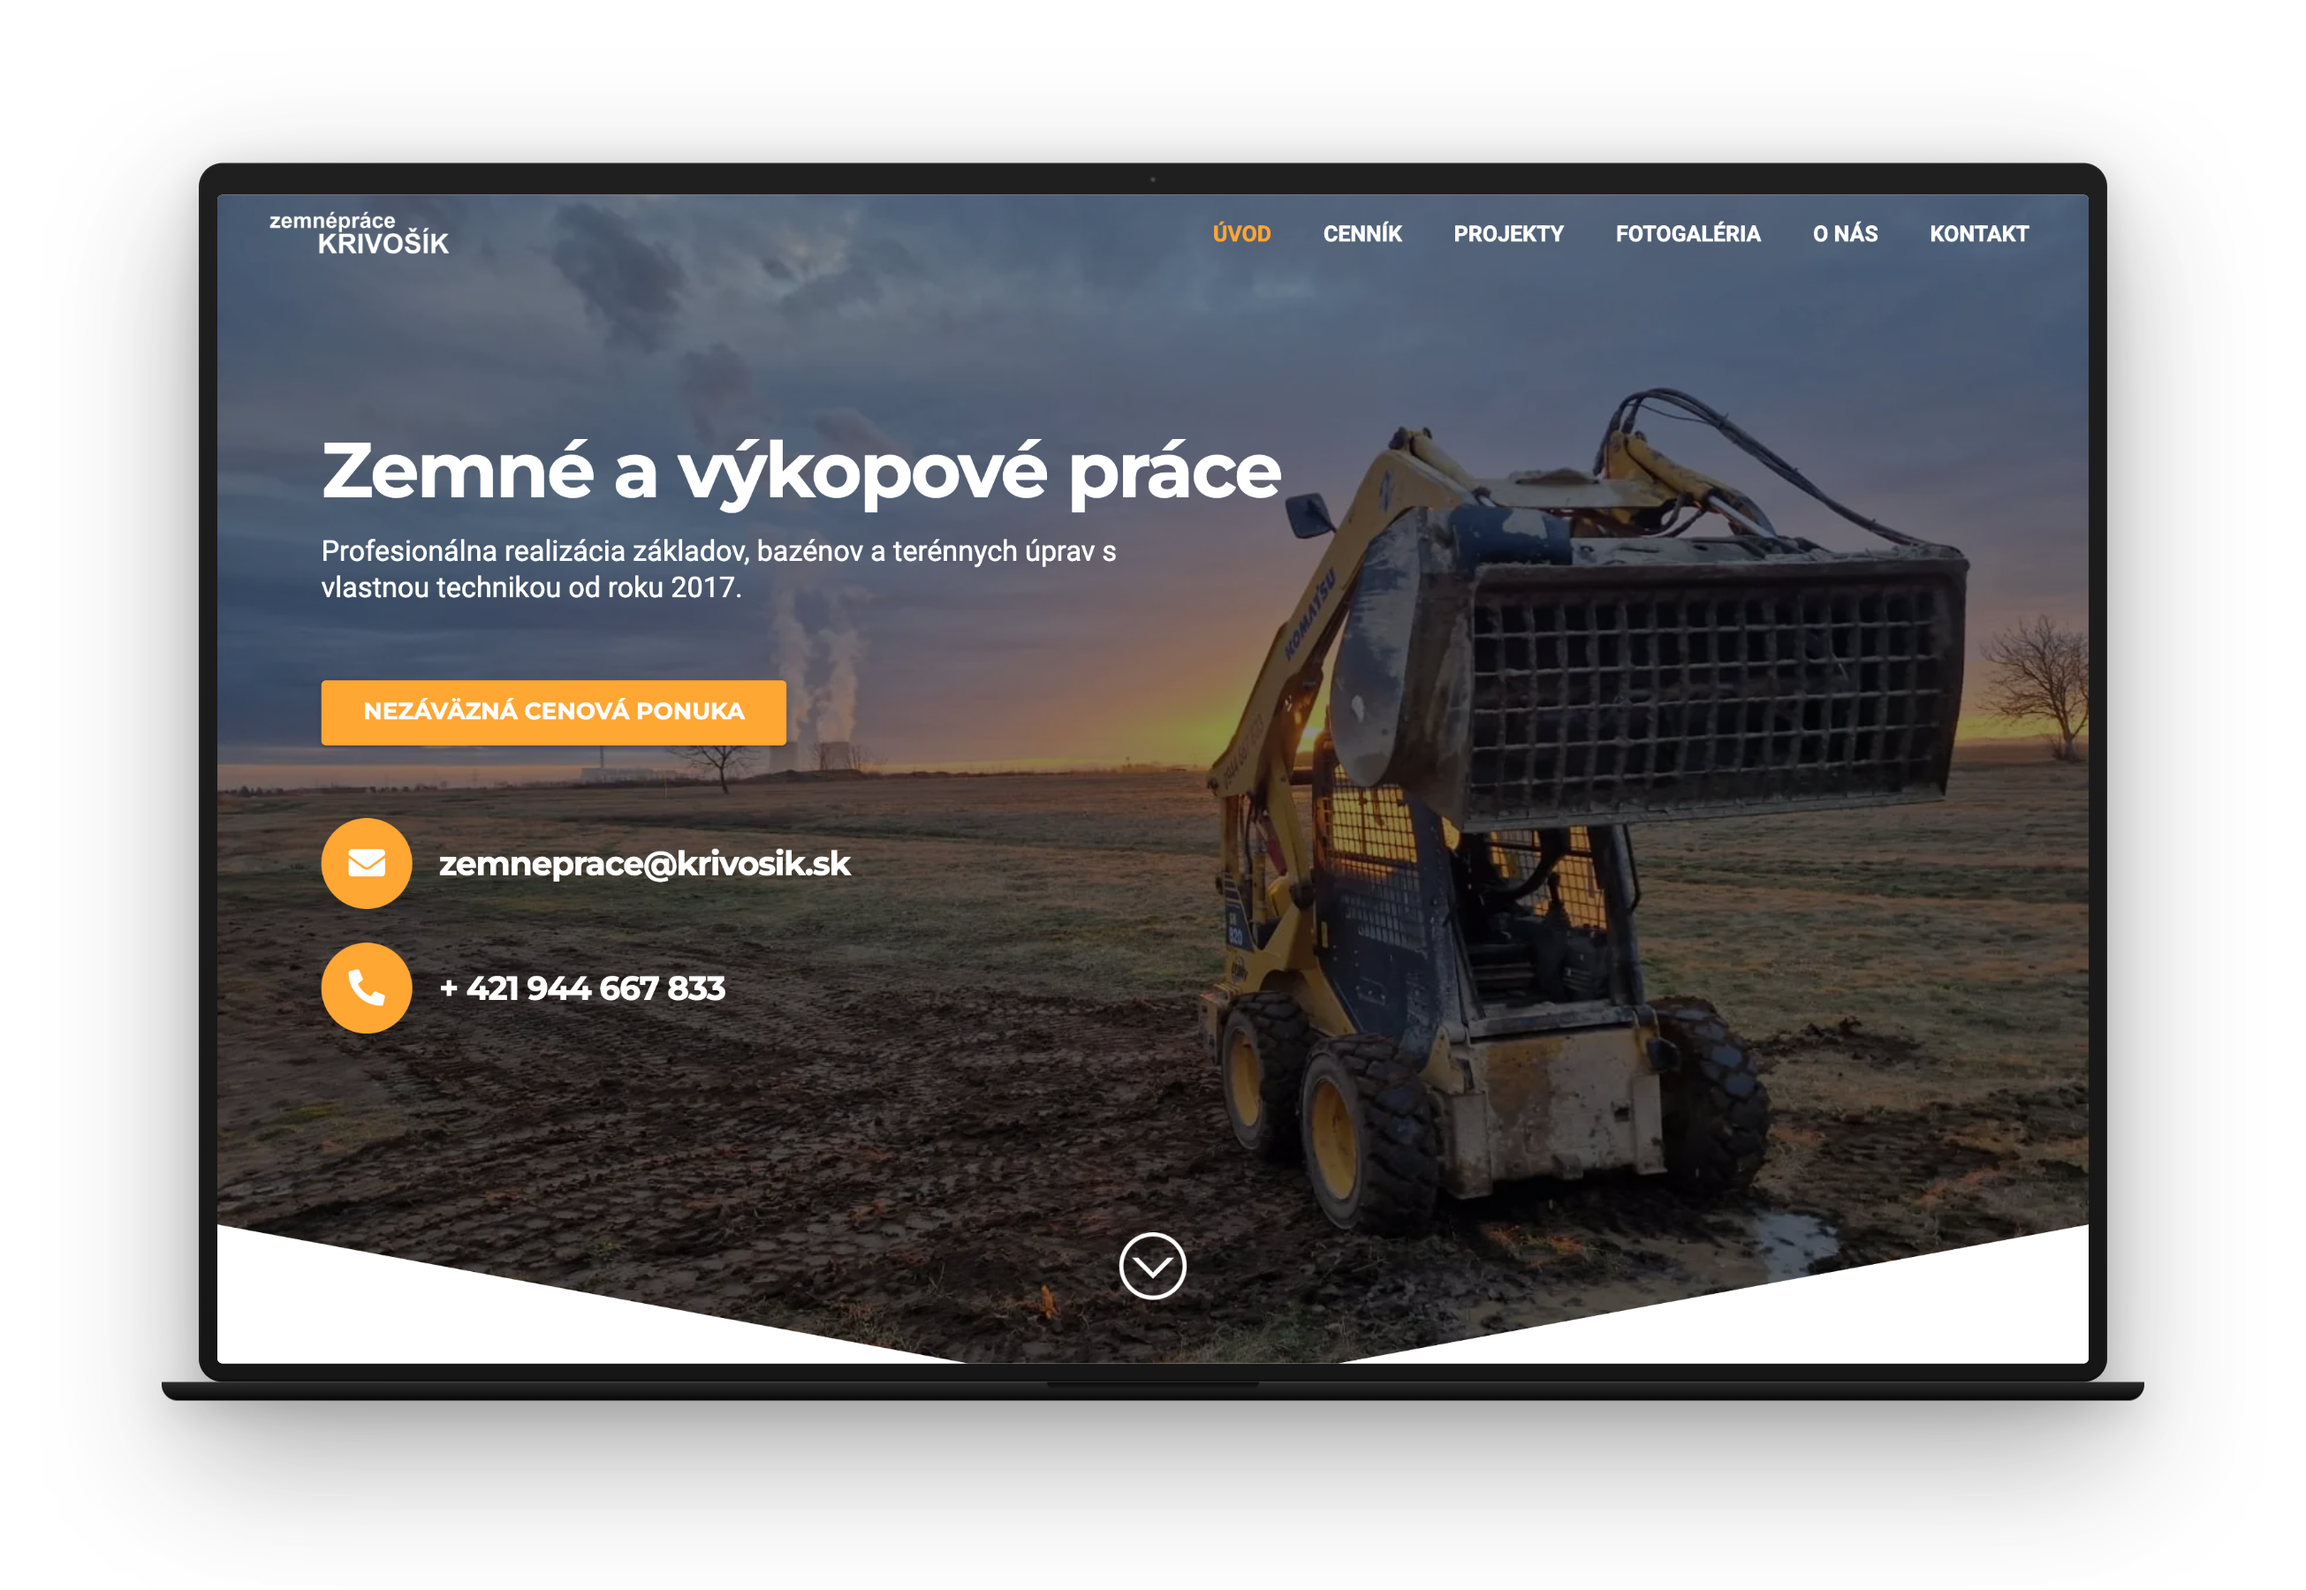
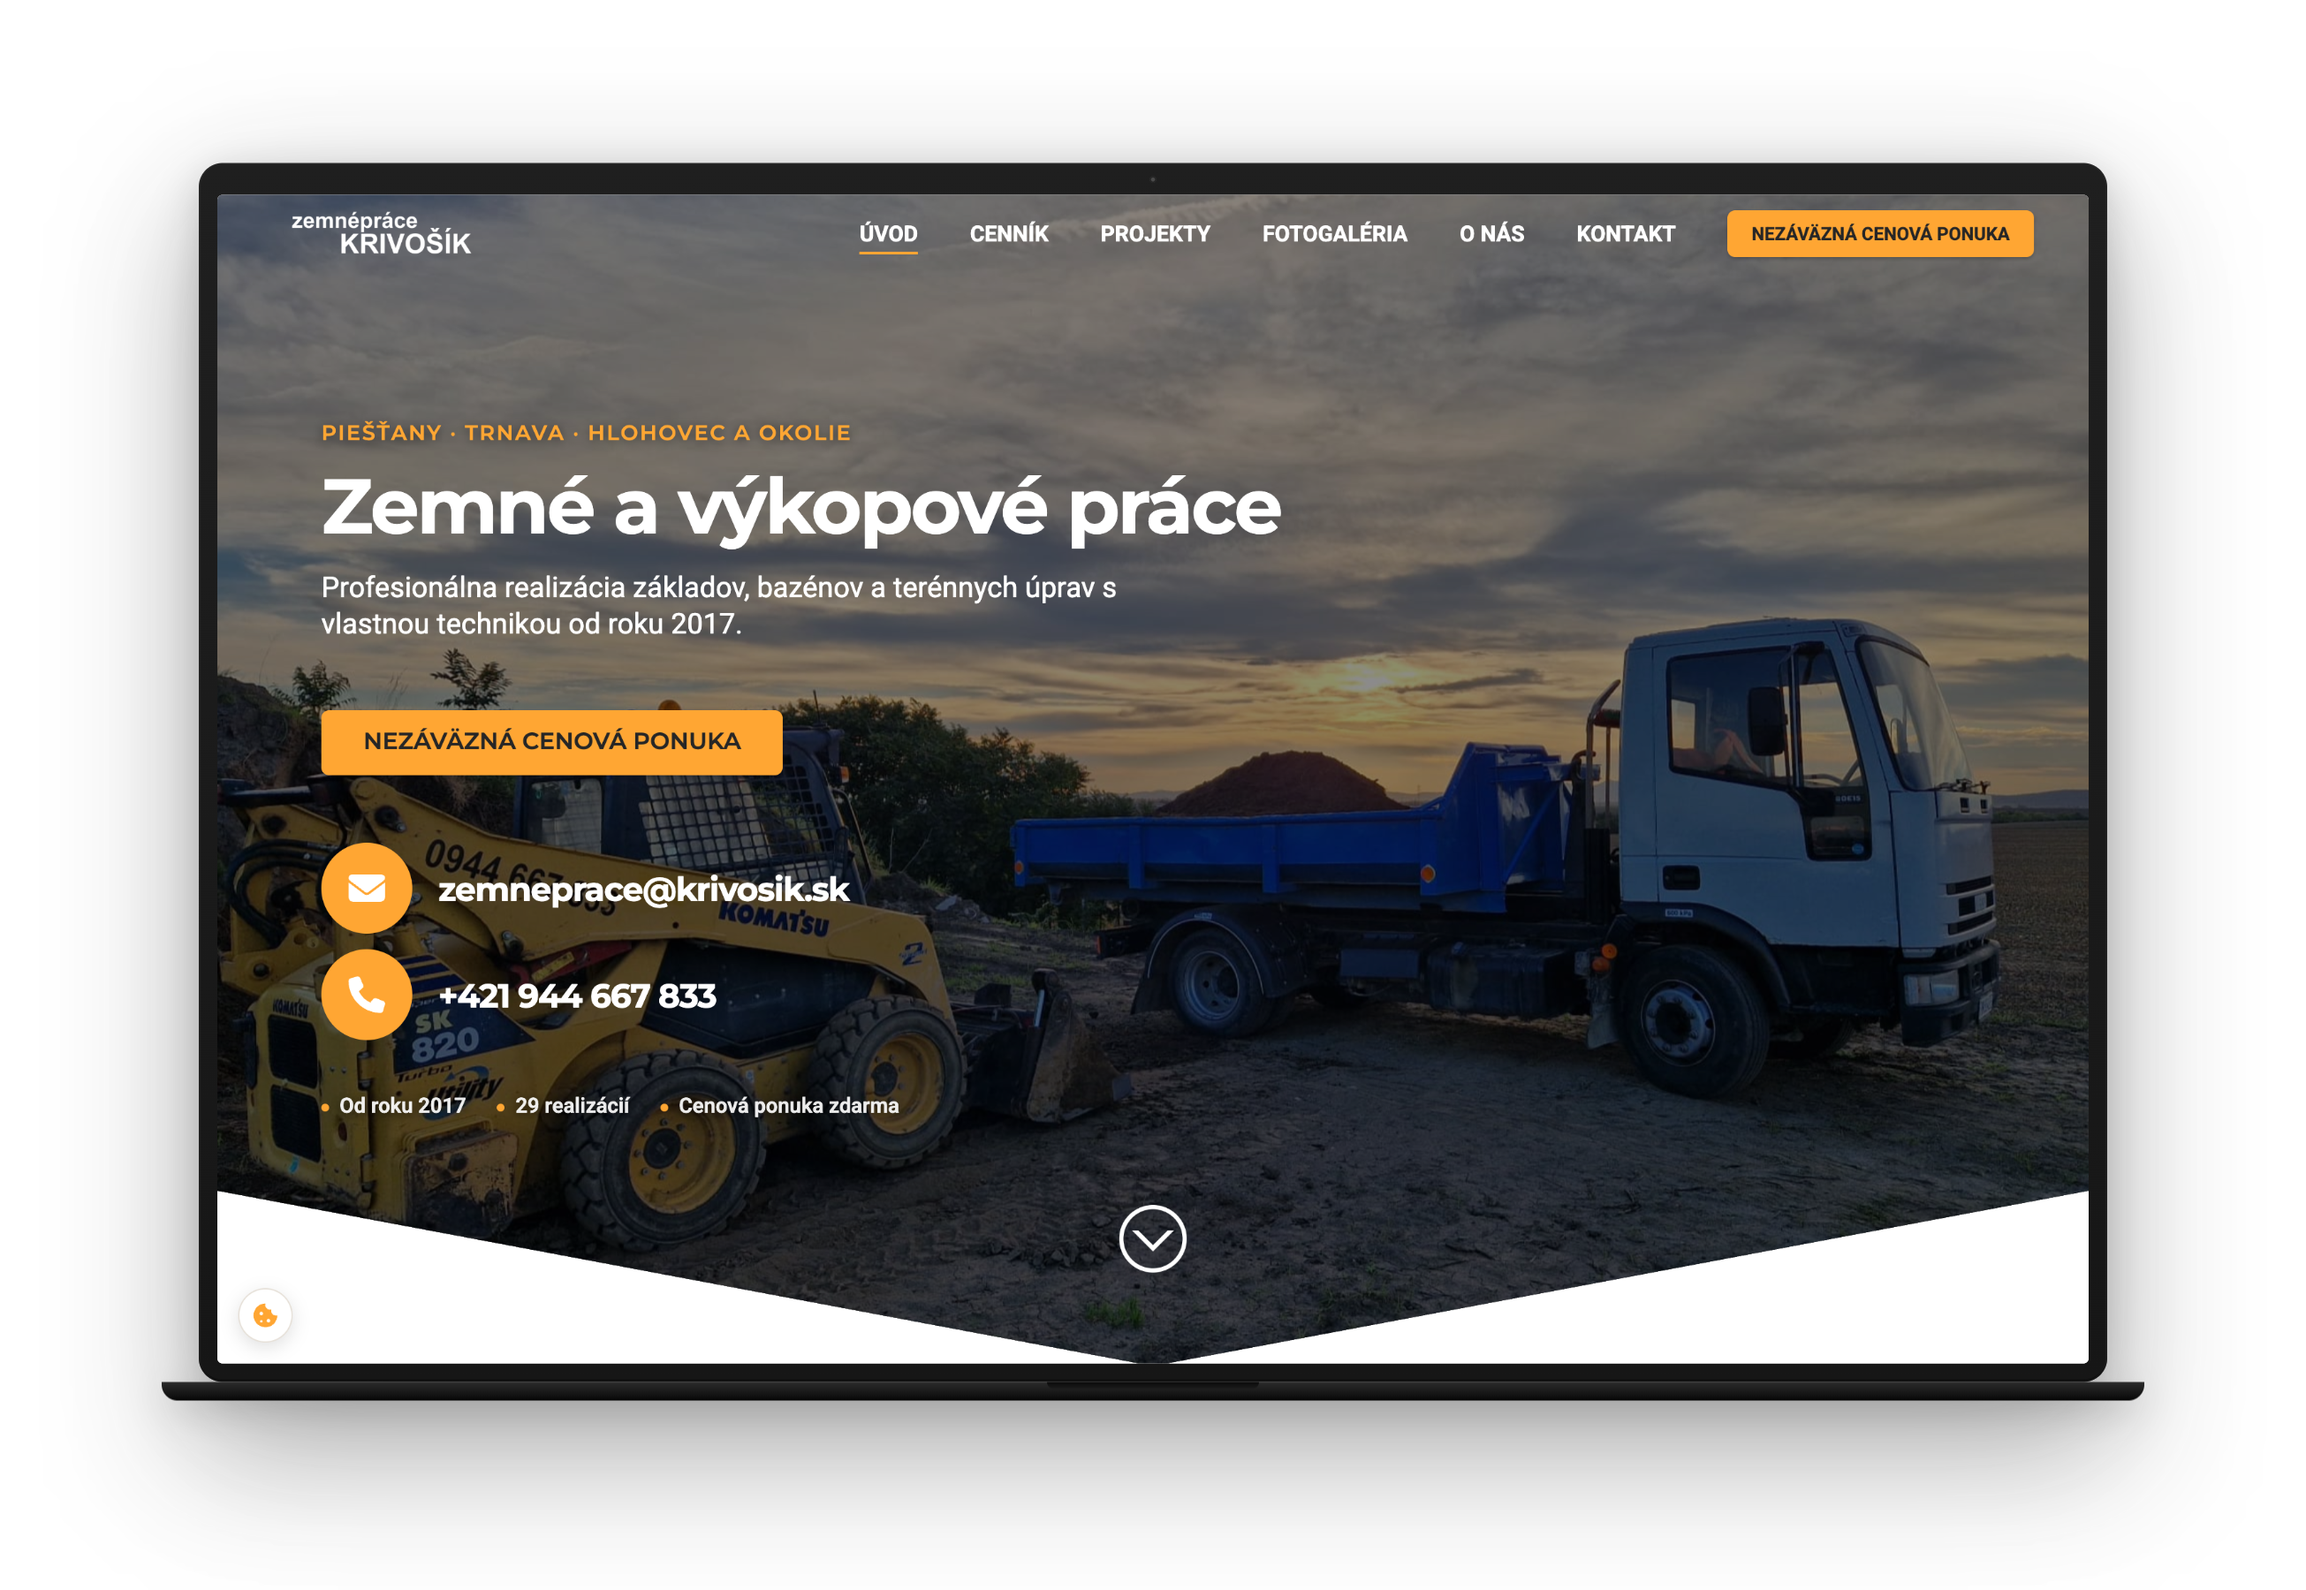
Prípadová štúdia krivosik.sk: nový web, nové zábery, llms.txt (SK + EN)
Claude-Session: https://claude.ai/code/session_01GgtSTiRknFji6dDHMh4FR9

diff --git a/src/content/projects/en/krivosik.md b/src/content/projects/en/krivosik.md
@@ -1,50 +1,59 @@
 ---
-name: "Krivošík – Earthworks"
-kind: "Company website · WordPress"
-year: "2021"
+name: "krivosik.sk"
+kind: "Custom website · WordPress"
+year: "2026"
 role: "WordPress Developer · ongoing maintenance"
-duration: "Built 2021 + ongoing"
+duration: "2 days build + ongoing"
 client: "Ľubomír Krivošík"
 url: "krivosik.sk"
 accent: accent
 order: 29
 featured: true
-brief: "A company website with strong local SEO for a sole trader in earthworks and excavation near Piešťany — services, a portfolio of jobs, and the phone number within reach."
+brief: "A new website for an earthworks and excavation company: a form next to the map, Google reviews on the site and enquiry tracking. Mobile performance from 79 to 95, first paint in 1.0 s instead of 3.4 s."
 metrics:
-  - value: "1st page"
-    label: "Google · “zemné práce Piešťany”"
-  - value: "1st page"
-    label: "Google · “výkopové práce Piešťany”"
-  - value: "1,500+"
-    label: "visits per 6 months"
-process:
-  - title: "Discovery"
-    duration: "1 day"
-    desc: "Goals, local keywords (“earthworks” / “excavation” + Piešťany), a quick audit of regional competitors."
-  - title: "Design"
-    duration: "2 days"
-    desc: "Mobile-first layout on the Impreza theme — services and phone number in the first section, a dedicated jobs section."
-  - title: "Build"
-    duration: "1 week"
-    desc: "Impreza theme setup, a portfolio gallery from real on-site photos, a contact form and click-to-call."
-  - title: "Launch + local SEO"
-    duration: "1 day"
-    desc: "GA, Search Console, on-page local SEO, LocalBusiness schema, sitemap — targeted at leads from around Piešťany."
-  - title: "Ongoing maintenance"
-    duration: "ongoing"
-    desc: "Adding new jobs, updates, and small tweaks as needed."
+  - value: "79 → 95"
+    label: "mobile performance (PageSpeed)"
+  - value: "3.4 → 1.0 s"
+    label: "first contentful paint (FCP) on mobile"
+  - value: "80 → 0 ms"
+    label: "total blocking time (TBT) on mobile"
 stack:
   - "WordPress"
-  - "Impreza (theme)"
-  - "Local SEO"
-  - "Jobs gallery"
-heroCaption: "homepage · services and phone in the hero"
-mobileCaption: "services and contact on mobile"
-secondaryCaption: "project detail · pool excavation & build"
+  - "Custom theme"
+  - "Yoast SEO"
+  - "Contact Form 7"
+  - "Cloudflare Turnstile"
+  - "Complianz"
+  - "GA4"
+heroCaption: "homepage · services and phone in the hero section"
+mobileCaption: "homepage on mobile"
+secondaryCaption: "project detail · pool excavation and build"
 ---
 
-A company website for a sole trader in earthworks and excavation around Piešťany. The goal is simple — when someone in the region searches for excavation, utility connections or ground works, they find Ľubo, with his phone number right there.
+### Starting point
 
-The site also serves as a portfolio of completed jobs (excavation, utility connections, foundations, ground works) — real on-site photos instead of stock images build trust.
+Zemné práce Krivošík is a family company from Veľké Kostoľany. It does earthworks and excavation, landscaping, concreting and demolition for households, companies and municipalities, and prepares quotes free of charge. I have been building its website since 2021 and still maintain it.
 
-The focus was local SEO. The site holds the first page of Google for both “zemné práce Piešťany” and “výkopové práce Piešťany,” which is where real enquiries come from. Built on WordPress with the Impreza theme, mobile-first. I have **maintained the site ever since** — adding new jobs and making small tweaks.
+The old site ran on an off-the-shelf theme with a page builder. It worked, but it had three weaknesses: a slow mobile experience, no form and no tracking of enquiries. People could call, but the company did not know how many visits actually led to that.
+
+### What was done
+
+- A custom WordPress theme without a page builder, with only what the page actually uses.
+- A form next to the map, protected from spam without an annoying captcha (Cloudflare Turnstile), sent to the company e-mail.
+- A custom carousel of Google reviews, an About section with a photo and numbers, and a new order of sections.
+- FAQ with structured data, a new sitemap, redirects for old URLs and an llms.txt file.
+- A cookie banner in the site's design and GA4 with `generate_lead` and `contact` events, so enquiries from the site can be tracked.
+- A complete set of site icons.
+
+### Result
+
+Comparison in Google PageSpeed Insights, 12 November 2026, the old site in the morning and the new one after launch:
+
+- mobile performance: 79 → 95
+- first contentful paint (FCP) on mobile: 3.4 s → 1.0 s
+- total blocking time (TBT) on mobile: 80 ms → 0 ms
+- Speed Index on mobile: 6.9 s → 3.0 s
+- mobile accessibility: 91 → 99
+- SEO and best practices: 100 on both versions
+
+What did not improve: desktop was already at the top end (97 → 96) and the largest contentful paint (LCP) on mobile only dropped from 3.4 s to 2.9 s, still above the 2.5 s Google considers good. These are lab numbers; I will add data from real visitors once Search Console has collected it.

diff --git a/src/content/projects/sk/krivosik.md b/src/content/projects/sk/krivosik.md
@@ -1,50 +1,59 @@
 ---
-name: "Krivošík – zemné práce"
-kind: "Firemný web · WordPress"
-year: "2021"
+name: "krivosik.sk"
+kind: "Nový web na mieru · WordPress"
+year: "2026"
 role: "WordPress Developer · priebežná správa"
-duration: "Build 2021 + ongoing"
+duration: "2 dni build + ongoing"
 client: "Ľubomír Krivošík"
 url: "krivosik.sk"
 accent: accent
 order: 29
 featured: true
-brief: "Firemný web so silným lokálnym SEO pre živnostníka v zemných a výkopových prácach v okolí Piešťan — služby, portfólio realizácií a telefón nadosah."
+brief: "Nový web pre firmu na zemné a výkopové práce: formulár vedľa mapy, recenzie z Google priamo na webe a meranie dopytov. Mobilný výkon z 79 na 95 bodov, prvé zobrazenie za 1,0 s namiesto 3,4 s."
 metrics:
-  - value: "1. strana"
-    label: "Google · „zemné práce Piešťany“"
-  - value: "1. strana"
-    label: "Google · „výkopové práce Piešťany“"
-  - value: "1 500+"
-    label: "návštev za pol roka"
-process:
-  - title: "Analýza"
-    duration: "1 deň"
-    desc: "Ciele, lokálne kľúčové slová („zemné práce“ / „výkopové práce“ + Piešťany), rýchly audit konkurencie v regióne."
-  - title: "Design"
-    duration: "2 dni"
-    desc: "Mobile-first rozvrhnutie na téme Impreza — služby a telefón v prvej sekcii, samostatná sekcia realizácií."
-  - title: "Build"
-    duration: "1 týždeň"
-    desc: "Nastavenie témy Impreza, galéria realizácií z reálnych fotiek z terénu, kontaktný formulár a klik-na-telefón."
-  - title: "Launch + lokálne SEO"
-    duration: "1 deň"
-    desc: "GA, Search Console, on-page lokálne SEO, LocalBusiness schema, sitemap — cielené na dopyty z okolia Piešťan."
-  - title: "Priebežná správa"
-    duration: "ongoing"
-    desc: "Pridávanie nových realizácií, aktualizácie a drobné úpravy podľa potreby."
+  - value: "79 → 95"
+    label: "výkon na mobile (PageSpeed)"
+  - value: "3,4 → 1,0 s"
+    label: "prvé zobrazenie (FCP) na mobile"
+  - value: "80 → 0 ms"
+    label: "blokovanie vstupu (TBT) na mobile"
 stack:
   - "WordPress"
-  - "Impreza (téma)"
-  - "Local SEO"
-  - "Galéria realizácií"
-heroCaption: "domovská stránka · služby a telefón v hero sekcii"
-mobileCaption: "služby a kontakt na mobile"
+  - "Vlastná téma"
+  - "Yoast SEO"
+  - "Contact Form 7"
+  - "Cloudflare Turnstile"
+  - "Complianz"
+  - "GA4"
+heroCaption: "homepage · služby a telefón v hero sekcii"
+mobileCaption: "úvod na mobile"
 secondaryCaption: "detail realizácie · výkop a stavba bazéna"
 ---
 
-Firemný web pre živnostníka v zemných a výkopových prácach v okolí Piešťan. Cieľ je jednoduchý — keď niekto v regióne hľadá výkopy, prípojky alebo terénne úpravy, nájde Ľuba a má hneď nadosah telefón.
+### Východisko
 
-Web slúži zároveň ako portfólio hotových realizácií (výkopy, prípojky, základy, terénne úpravy) — reálne fotky z terénu namiesto stock obrázkov budujú dôveru.
+Zemné práce Krivošík je rodinná firma z Veľkých Kostolian. Robí zemné a výkopové práce, terénne úpravy, betónovanie a búranie pre domácnosti, firmy aj obce a cenovú ponuku pripravuje zadarmo. Web jej robím od roku 2021 a stále ho spravujem.
 
-Ťažiskom bolo lokálne SEO. Web sa drží na prvej strane Google na „zemné práce Piešťany“ aj „výkopové práce Piešťany“, odkiaľ chodia reálne dopyty. Postavený na WordPresse s témou Impreza, mobile-first. Stránku odvtedy **stále spravujem** — pridávam nové realizácie a robím drobné úpravy.
+Starý web bežal na hotovej téme s page builderom. Fungoval, no mal tri slabiny: pomalý mobil, žiadny formulár a žiadne meranie dopytov. Ľudia mohli zavolať, ale firma nevedela, koľko návštev k tomu skutočne viedlo.
+
+### Čo sa urobilo
+
+- Vlastná WordPress téma bez page buildera, s tým, čo stránka naozaj používa.
+- Formulár vedľa mapy, chránený proti spamu bez otravnej captcha (Cloudflare Turnstile), odosiela sa na firemný e-mail.
+- Vlastný karusel recenzií z Google, sekcia O nás s fotkou a číslami a nové poradie sekcií.
+- Časté otázky so štruktúrovanými údajmi, nová sitemap, presmerovania starých adries a súbor llms.txt.
+- Cookie lišta v dizajne webu a GA4 s udalosťami `generate_lead` a `contact`, takže sa dopyty zo stránky dajú sledovať.
+- Kompletná sada ikon webu.
+
+### Výsledok
+
+Porovnanie v Google PageSpeed Insights, 12. 11. 2026, starý web ráno a nový po nasadení:
+
+- výkon na mobile: 79 → 95
+- prvé zobrazenie (FCP) na mobile: 3,4 s → 1,0 s
+- blokovanie vstupu (TBT) na mobile: 80 ms → 0 ms
+- Speed Index na mobile: 6,9 s → 3,0 s
+- dostupnosť na mobile: 91 → 99
+- SEO a osvedčené postupy: 100 na oboch verziách
+
+Čo sa nezlepšilo: desktop bol už predtým na hornej hranici (97 → 96) a hlavný obsah (LCP) na mobile sa skrátil len z 3,4 s na 2,9 s, stále nad hranicou 2,5 s, ktorú Google považuje za dobrú. Sú to laboratórne čísla; dáta od skutočných návštevníkov doplním, keď ich nazbiera Search Console.
